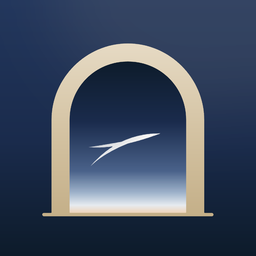
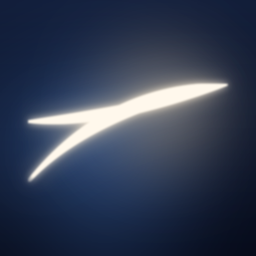
site 0.70.2: yeni ikon (Hale), mobilde guven ekran seridi kalkan kartina girmiyor, sayac etiketleri sigar, yatay tasma korumasi

diff --git a/app/globals.css b/app/globals.css
@@ -2750,6 +2750,9 @@ section[id], .capa, [id="an"], [id="liste"] { scroll-margin-top: 84px; }
 @media (max-width: 860px) {
   .guven-ikili { grid-template-columns: 1fr; gap: 22px; }
   .guven-ikili .guven-ekran .shot { width: 30%; max-width: 150px; }
+  /* 17 Ekim (Gökberk, telefon ekran görüntüsü): ortadaki ekran 28px yukarı kalkık; tek sütunda
+     üstündeki kalkan kartının İÇİNE giriyordu. Kalkış payı kadar üst boşluk. */
+  .guven-ikili .guven-ekran { padding-top: 34px; gap: 12px; }
 }
 
 /* ── v0.69.2 · kapsam dizini (/rehber) + /kartlar başı ─────────── */
@@ -2786,7 +2789,7 @@ section[id], .capa, [id="an"], [id="liste"] { scroll-margin-top: 84px; }
 .dz-ara input:focus { outline: none; border-color: var(--hair-gold); box-shadow: 0 0 0 3px rgba(201,182,147,.12); }
 .dz-sonuc { font-size: 13px; color: var(--muted); margin: -4px 0 10px; }
 .dz-hepsi { margin-top: 20px; }
-@media (max-width: 560px) { .dz-sayilar { gap: 8px; } .dz-sayilar div { padding: 12px; } }
+@media (max-width: 560px) { .dz-sayilar { gap: 8px; } .dz-sayilar div { padding: 12px 10px; } .dz-sayilar span { font-size: 10px; letter-spacing: .08em; overflow-wrap: anywhere; } }
 
 /* ── v0.69.3 · Salon rehberi: havalimanı içinde salonlar + kartlar + kurallar ── */
 .dz-ek-bas, .dz-ek h4 { margin: 18px 0 8px; font-size: 11px; font-weight: 600; letter-spacing: .18em; text-transform: uppercase; color: var(--goldText); }
@@ -3139,3 +3142,7 @@ footer a { color: var(--goldText); }
 /* Hak hesaplayıcı (W3) seçili kart çipi: sitenin seçim dili şampanya sikke (pill.on ile aynı). */
 .wchip.on { background: var(--sampanya-gradyan); color: var(--onGold); font-weight: 600;
   box-shadow: 0 4px 12px rgba(138,114,71,.20), inset 0 1px 0 rgba(255,255,255,.55); }
+
+/* 17 Ekim — mobil güvence: dekoratif sabit katmanlar (kanat izi vb.) iOS Safari'de sayfayı
+   yana kaydırmasın. `clip`, `hidden`ın aksine sticky başlığı bozmaz. */
+html, body { overflow-x: clip; }
